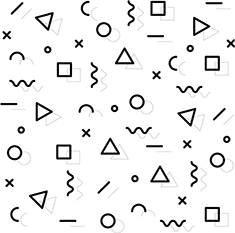
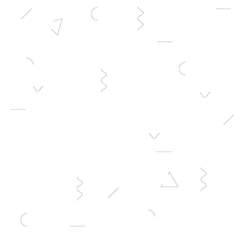
version 1.2

diff --git a/blog/assets/css/style.css b/blog/assets/css/style.css
@@ -312,6 +312,16 @@ header .btn-group {
 
 .hero .right { display: none; }
 
+.hero .pattern-bg {
+  position: absolute;
+  top: 50%;
+  transform: translateY(-50%);
+  width: 100%;
+  height: 200px;
+  background: url(/blog/assets/images/pattern.png);
+  background-size: contain;
+  opacity:0.2;
+}
 
 
 
@@ -751,7 +761,7 @@ footer .wrapper { text-align: center; }
     height: 200px;
     background: url(../images/pattern.png);
     background-size: contain;
-    opacity: 0.2;
+    opacity: 0.14;
   }
 
   .hero .img-box {

diff --git a/blog/Blog.html b/blog/Blog.html
@@ -10,7 +10,7 @@
   <!--
     - favicon
   -->
-  <link rel="shortcut icon" href="./assets/images/favicon.ico" type="image/x-icon">
+  <link rel="shortcut icon" href="./assets/images/icon-for-blog-28.jpg" type="image/x-icon">
 
   <!--
     - custom css link
